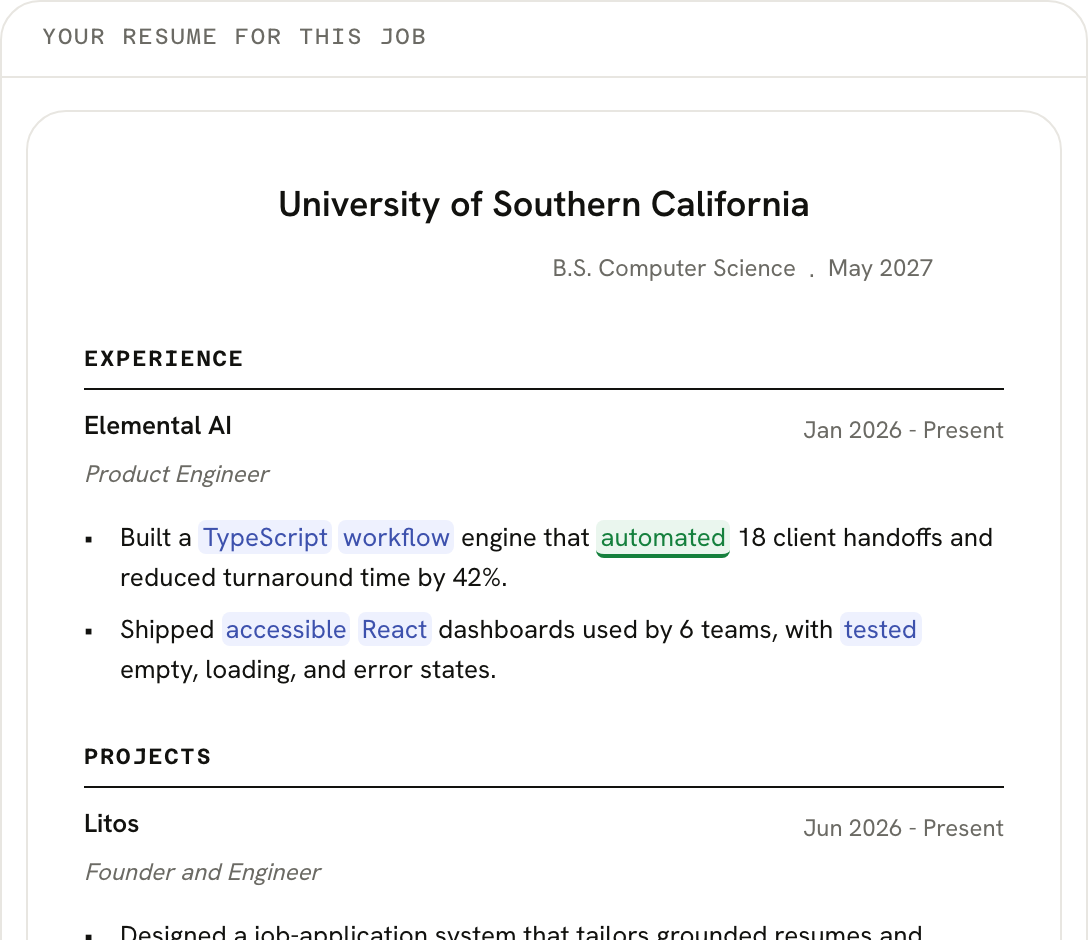
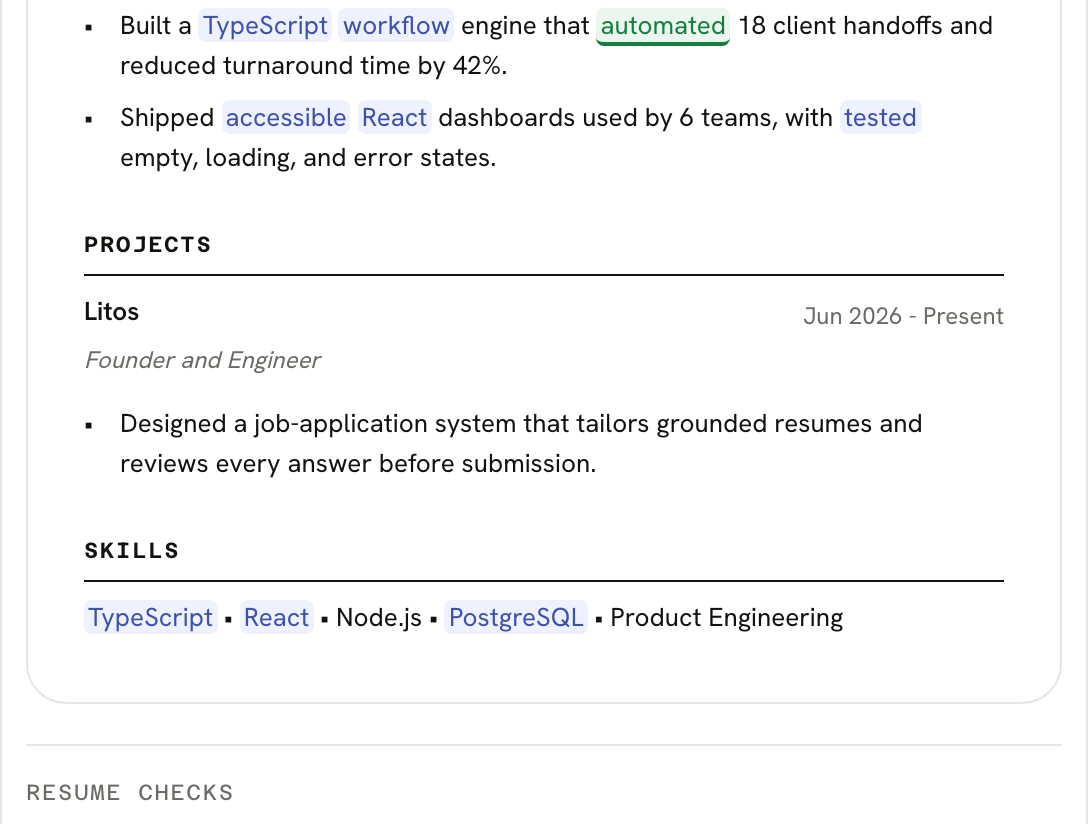
fix(hero): the numbers reconcile, the phone shows the output, and the fold stops leaking
Panel 3 scored 6.3 (up from 5.5 and 4.5). Its ranked list, applied:

THE CONTRADICTION (worth ~0.5, and the only finding that actively damaged the
positioning). The fold carried 'Strong match 86' beside '6 of 14 requirements',
both legible at 1:1. 6/14 is 43%. A hero whose whole thesis is candour cannot
print a number that fails a second look. The fault was mine, not the product's:
JD_MATCH_FIXTURE invented the 14. It is 7 now, so 6 of 7 is the 86 the ring
draws.

MOBILE (worth ~0.8, the largest drag). A 544px frame centred inside a 390px
screen was cut on BOTH edges, so every line lost its left margin - 'SUME FOR
THIS JOB', 'ental AI' - which is the signature of a layout bug, not of a
viewport crop. It also opened on a university header, the least differentiated
thing in the product. The band is now anchored left so one edge bleeds, and
clipFromY starts the cut below the education block so the phone gets the
tailored bullets with their highlights: the output, not the input.

THE VOID. lg:justify-between with a 600px column left a ~500px hole in the
middle of a 1440 fold. The previous fix had cured 'the right half is empty' by
moving content to the far wall and emptying the centre instead. The row is
capped and the right column has a real width, so the gutter is a spacing step
rather than whatever was left over.

'Free' appeared three times in one fold (eyebrow, CTA, qualifier). At that
density it reads as insecurity about the price and it burns the eyebrow slot.
[…]

diff --git a/components/HeroScene.tsx b/components/HeroScene.tsx
@@ -140,10 +140,10 @@ export function HeroScene() {
        * move to a right-hand column, so the copy row fills the width, the
        * headline keeps a 560px measure, and the artifact still starts high. */}
       <div className="mx-auto w-full max-w-7xl px-6">
-        <div className="flex flex-col gap-10 lg:flex-row lg:items-end lg:justify-between lg:gap-16">
+        <div className="flex max-w-[1060px] flex-col gap-10 lg:flex-row lg:items-end lg:gap-16">
           <div className="max-w-[600px]">
             <p className="font-mono text-label uppercase tracking-[0.08em] text-muted">
-              Free Chrome extension for job seekers
+              Chrome extension for job seekers
             </p>
             <h1 className="mt-4 text-display font-[450] text-ink">
               Apply <span className="text-brand-ink">in seconds.</span>
@@ -173,7 +173,7 @@ export function HeroScene() {
             </div>
           </div>
 
-          <div className="shrink-0 lg:pb-1">
+          <div className="shrink-0 lg:w-[360px] lg:pb-1">
             {/* The number in the Stripe idiom: bare type over a hairline, no
                 card, no border, no shadow. It was a bordered, shadowed box
                 absolutely positioned over the capture, which occluded the line
@@ -182,7 +182,7 @@ export function HeroScene() {
                 product UI, which is the one thing a brand built on candour
                 cannot afford. Rendered at every width; it was sm:-gated, so the
                 phone fold carried no speed claim at all. */}
-            <p className="text-section font-[450] text-ink">
+            <p className="text-heading font-[450] text-ink">
               <span className="font-mono text-muted">&lt;</span>&thinsp;30 seconds
             </p>
             <p className="mt-1.5 font-mono text-label uppercase tracking-[0.08em] text-faint">
@@ -210,7 +210,11 @@ export function HeroScene() {
           1232px container, so both edges were visible and it read as a card
           placed on a page rather than a workspace the viewport happens to cut.
           Refusing to fit is what makes Linear and Attio read as real. */}
-      <div className="mt-10 flex w-full justify-center overflow-hidden">
+      {/* Anchored left below sm. Centring a 544px frame inside a 390px screen
+          cut ~77px off BOTH edges, so every line lost its left margin ("SUME
+          FOR THIS JOB", "ental AI") — the visual signature of a layout bug, not
+          of a workspace the viewport happens to cut. One edge, always. */}
+      <div className="mt-10 flex w-full justify-start overflow-hidden pl-6 sm:justify-center sm:pl-0">
         <div className="relative w-[544px] shrink-0 sm:w-[1104px]">
           <picture>
             <source media="(max-width: 640px)" srcSet={SHOT_MOBILE?.src ?? SHOT.src} />
